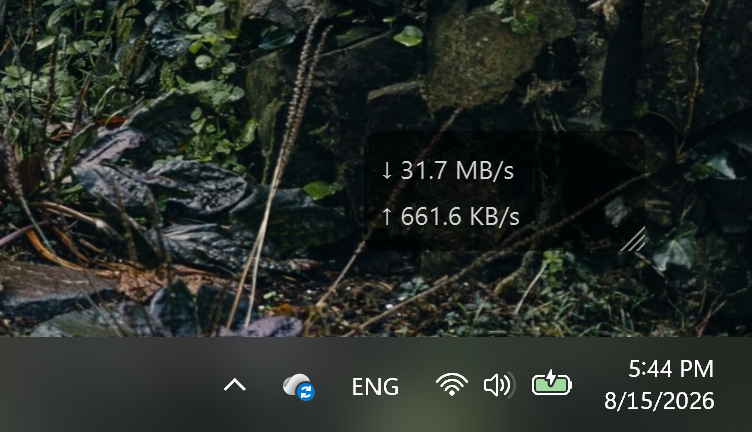
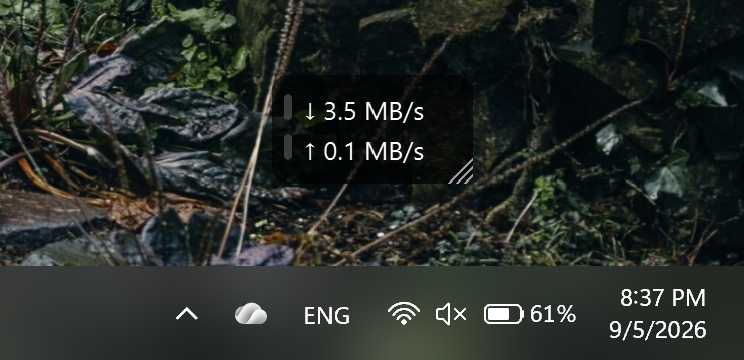
updated README with new features and added more screenshots

diff --git a/README.md b/README.md
@@ -1,7 +1,9 @@
-<picture>
-  <source media="(prefers-color-scheme: dark)" srcset="docs/TinyNetUse-horizontal-light.png">
-  <img alt="TinyNetUse" src="docs/TinyNetUse-horizontal-dark.png" width="380">
-</picture>
+<p align="center">
+  <picture>
+    <source media="(prefers-color-scheme: dark)" srcset="docs/TinyNetUse-horizontal-light.png">
+    <img alt="TinyNetUse" src="docs/TinyNetUse-horizontal-dark.png" width="380">
+  </picture>
+</p>
 
 # TinyNetUse
 
@@ -13,85 +15,106 @@ TinyNetUse is a small open-source Windows utility that shows current download an
        width="420">
 </p>
 
-<!-- TODO: Add a short gif demonstration here later.
-<p align="center">
-  <img src="docs/screenshots/tinynetuse-demo.gif"
-       alt="TinyNetUse overlay being moved and configured on the Windows desktop"
-       width="760">
-</p>
--->
-
 ## Download
 
 TinyNetUse is currently verified on 64-bit Windows 11. Other Windows versions have not yet been verified.
 
 [Download the latest TinyNetUse release](https://github.com/laween-alsulaivany/TinyNetUse/releases/latest)
 
-For most users, choose **`TinyNetUse-Setup-<version>.exe`**. The installer sets up TinyNetUse for your Windows account and does not require administrator access.
+For most users, choose **`TinyNetUse-Setup-<version>.exe`**. The installer sets up TinyNetUse for your Windows account without requiring administrator access.
 
-The portable download runs without installation. Keep `portable.flag` beside `TinyNetUse.exe` so its settings stay in the same folder.
+The portable version runs without installation. Keep `portable.flag` beside `TinyNetUse.exe` if you want its settings stored in the same folder.
 
-Neither download requires Python.
+Neither version requires Python.
 
-Current release builds are not yet code-signed, so Windows SmartScreen may show a warning when you first run them.
+TinyNetUse releases are currently unsigned, so Windows SmartScreen may display a warning when installing or running the application. SHA-256 checksums are published with each release.
 
 ## Features
 
-- Live download and upload speeds with automatic or fixed units
-- Automatic active-connection monitoring or a specific network adapter
-- Optional rolling network graph
-- Movable and resizable overlay with position locking and always-on-top mode
-- Configurable font, colors, opacity, precision, update interval, and download/upload highlight thresholds
-- System tray controls and an optional launch-at-Windows-startup setting
-- Manual update checks from About TinyNetUse
+* Live download and upload speeds with automatic or fixed display units
+* Automatic active-connection monitoring or selection of a specific network adapter
+* Optional history graph with Centered, Stacked, and Shared Overlay layouts
+* Movable and resizable overlay with position locking, always-on-top, and click-through modes
+* Configurable appearance, units, precision, update interval, and speed thresholds
+* System tray controls, optional launch at Windows startup, and manual update checks
 
 ## Basic usage
 
-1. Install TinyNetUse, or extract the portable files to a folder you can keep.
+1. Install TinyNetUse, or extract the portable version to a folder you can keep.
 2. Launch TinyNetUse. The speed overlay appears on the desktop and a TinyNetUse icon appears in the system tray.
-3. Right-click the overlay or tray icon for graph controls, overlay options, Settings, window-position recovery, About, and Quit.
+3. Right-click the overlay or tray icon to access the graph, settings, overlay options, application information, and quit controls.
 4. Drag the overlay to move it. Drag its bottom-right corner to resize it.
 
-Your settings and window positions are saved automatically.
+Settings and window positions are saved automatically.
 
-## Screenshots
+## Graph
 
-The graph displays recent download and upload activity using the same units as the overlay, with a top-right current-value telemetry strip, a visible unit scale, and horizontal grid lines. Choose Centered, Stacked, or Shared Overlay in Settings to arrange the download and upload series. Use its context menu to pause sampling temporarily or clear its history.
+The optional graph shows recent download and upload activity and supports three display layouts.
+
+### Centered
+
+Downloads and uploads are plotted on opposite sides of a centered zero line.
 
 <p align="center">
-  <img src="docs/screenshots/tinynetuse-graph.png"
-       alt="TinyNetUse rolling download and upload speed graph"
-       width="860">
+  <img src="docs/screenshots/tinynetuse-graph-centered.png"
+       alt="TinyNetUse graph with downloads above and uploads below a centered zero line"
+       width="640">
 </p>
 
-The settings window groups Application, Widget, and Graph controls for monitoring, appearance, alerts, and startup behavior. Overlay and graph opacity are configured separately.
+### Stacked
+
+Download and upload activity are shown in separate stacked areas.
+
+<p align="center">
+  <img src="docs/screenshots/tinynetuse-graph-stacked.png"
+       alt="TinyNetUse graph with separate stacked download and upload areas"
+       width="640">
+</p>
+
+### Shared Overlay
+
+Download and upload activity are plotted together on the same scale.
+
+<p align="center">
+  <img src="docs/screenshots/tinynetuse-graph-shared-overlay.png"
+       alt="TinyNetUse graph with download and upload lines on the same scale"
+       width="640">
+</p>
+
+## Settings
+
+Settings are organized into Application, Widget, and Graph sections.
 
 <p align="center">
   <img src="docs/screenshots/tinynetuse-settings.png"
-       alt="TinyNetUse settings window"
-       width="520">
+       alt="TinyNetUse settings window with Application, Widget, and Graph sections"
+       width="720">
 </p>
 
 ## Privacy and network behavior
 
-TinyNetUse reads the network byte counters provided by Windows to calculate current speeds. It does not inspect packet contents, send telemetry, or collect usage data. Project and release links open GitHub in your default browser only when you select them. Selecting Check for Updates in About TinyNetUse manually asks GitHub for the latest release; TinyNetUse never checks automatically.
+TinyNetUse reads network byte counters provided by Windows to calculate current speeds. It does not inspect packet contents, send telemetry, or collect usage data.
 
-In Auto mode, TinyNetUse asks Windows which adapter owns the best network route. This is a local route lookup and does not send a packet. If Windows cannot provide a matching adapter, TinyNetUse totals all active adapters that have a usable non-loopback IP address. This fallback can include physical, VPN, and virtual adapters, so layered traffic may be counted more than once. TinyNetUse is not an exact ISP bandwidth accounting tool.
+Project and release links open GitHub only when selected. Update checks also run only when requested by the user; TinyNetUse does not check for updates automatically.
 
-Installed settings are stored locally in `%LOCALAPPDATA%\TinyNetUse\config.json`. Portable settings are stored beside the executable only when `portable.flag` is present.
+In Auto mode, TinyNetUse asks Windows which adapter owns the preferred network route. This lookup is performed locally and does not send network traffic. If Windows cannot identify a matching adapter, TinyNetUse falls back to active adapters with usable non-loopback IP addresses.
+
+This fallback can include physical, VPN, and virtual adapters, so traffic may be counted more than once in some network configurations. TinyNetUse is intended as a live network-activity monitor rather than an exact bandwidth-accounting tool.
+
+Installed settings are stored locally in `%LOCALAPPDATA%\TinyNetUse\config.json`. Portable settings are stored beside the executable when `portable.flag` is present.
 
 ## Issues and feedback
 
-Report bugs or request changes through [GitHub Issues](https://github.com/laween-alsulaivany/TinyNetUse/issues). Include your TinyNetUse version, Windows version, and the steps that reproduce the problem when possible.
+Report bugs or request changes through [GitHub Issues](https://github.com/laween-alsulaivany/TinyNetUse/issues).
+
+When reporting a problem, include the TinyNetUse version, Windows version, and steps to reproduce the issue when possible.
 
 ## License
 
 TinyNetUse is open source under the [MIT License](LICENSE).
 
-## Code signing policy
-
-TinyNetUse releases are currently unsigned. See the [code signing policy](CODE_SIGNING_POLICY.md) for information about official builds and distribution.
-
 ## Development
 
-Source setup, testing, build, and release instructions are in [DEVELOPMENT.md](DEVELOPMENT.md).
+Source setup, testing, build, and release instructions are available in [DEVELOPMENT.md](DEVELOPMENT.md).
+
+Information about official builds and future code signing is available in the [code signing policy](CODE_SIGNING_POLICY.md).
